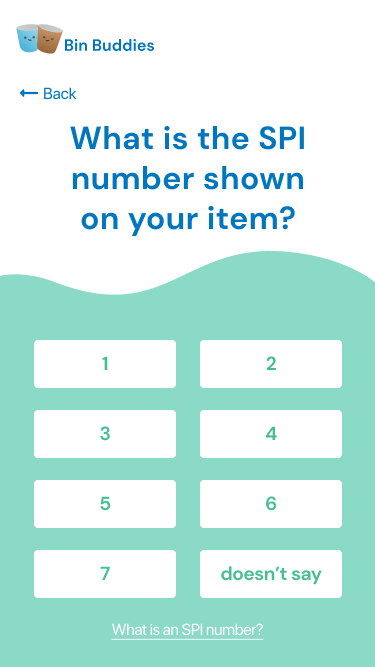
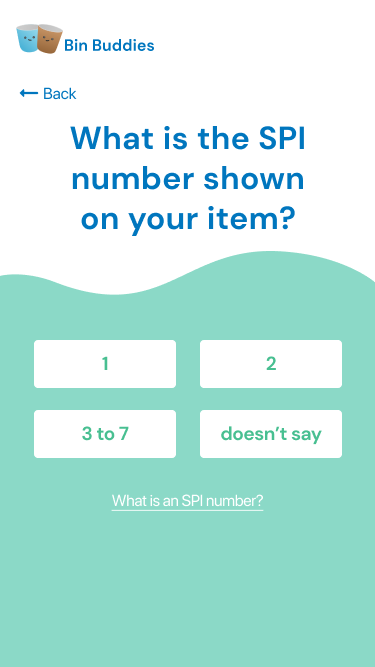
SPI
SPI

diff --git a/client/src/Home.jsx b/client/src/Home.jsx
@@ -311,7 +311,28 @@ function QuestionModal(props) {
         )
       } else if (materialType === 'plastic') {
         content = (
-          <Button variant="contained" onClick={() => setResult('w')}>1</Button>
+          <div className="spiModal">
+          <div className="spacer1">
+            <Link 
+                to={{
+                  pathname: "/final",
+                  state: { title: detectedObject, result: "Recycling Bin", info: 'Please dispose of you item responsibly!'}
+                }}
+              >  
+                <Button className="glassButton" className="materialButton" variant="contained" onClick={() => setResult('r')}>1</Button>
+                <Button className="plasticButton" className="materialButton" variant="contained" onClick={() => setResult('r')}>2</Button>
+            </Link>
+            <Link 
+                to={{
+                  pathname: "/final",
+                  state: { title: detectedObject, result: "Waste Bin", info: 'Please dispose of you item responsibly!'}
+                }}
+              >  
+              <Button className="metalButton" className="materialButton" variant="contained" >3 to 7</Button>
+              <Button className="paperButton" className="materialButton" variant="contained" >Does not show</Button>
+            </Link>
+          </div>
+        </div>
         )
       } else if (materialType === 'paper') {
         content = (
@@ -320,7 +341,7 @@ function QuestionModal(props) {
             <Link 
               to={{
                 pathname: "/final",
-                state: { title: detectedObject, result: "Blue Bin", info: 'Please dispose of you item responsibly!'}
+                state: { title: detectedObject, result: "Recycling Bin", info: 'Please dispose of you item responsibly!'}
               }}
             >
               <Button className="noContainer" variant="contained" onClick={() => setResult('Recycling')}>No</Button>

diff --git a/client/src/App.css b/client/src/App.css
@@ -316,6 +316,13 @@
   margin-top: 0px;
 }
 
+.spiModal {
+  width: 375px;
+  height: 667px;
+  background-image: url("./imgs/SPI.png");
+  margin-top: 0px;
+}
+
 .yesButtonQ{
   position: absolute;
   top: 500px;
